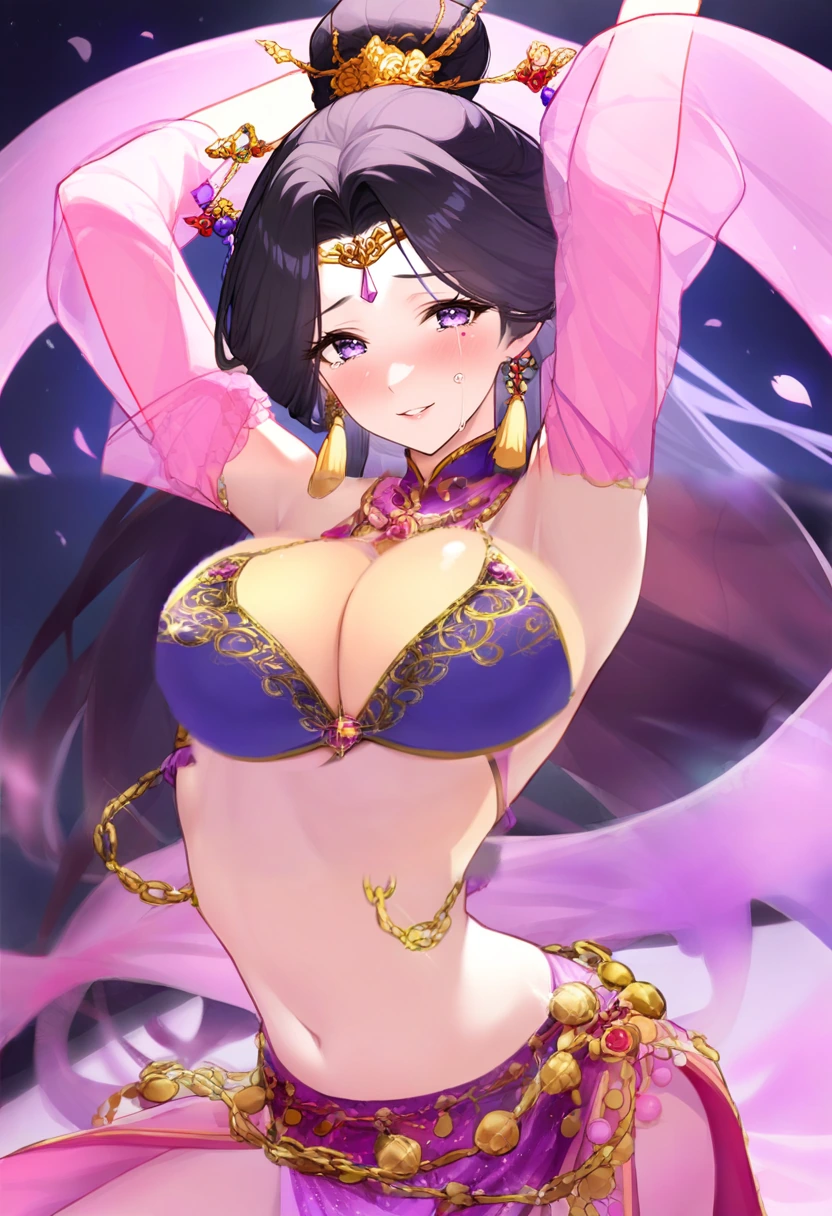
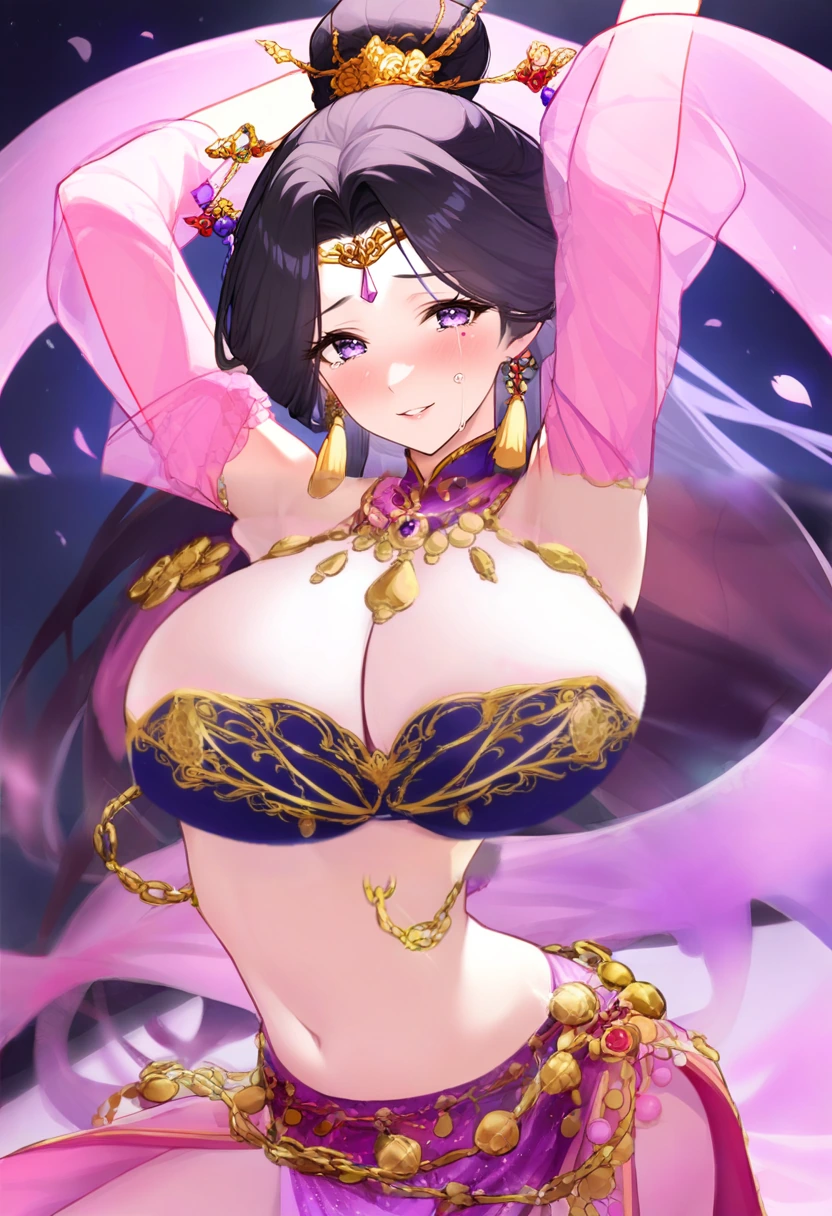
Diaochan v4: chest 2x larger, chest skin tone matched to stomach
Claude-Session: https://claude.ai/code/session_017CQhY3FLdH51zJppLF11JD

Changed region(s): [[0.0938, 0.4062, 0.7812, 0.7188]]

diff --git a/game/public/js/layered.js b/game/public/js/layered.js
@@ -17,7 +17,7 @@
     // 貂蟬 v2（2026-11-19 開發用 Colab＋Illustrious-XL 自己生的，Jay 選圖）：只有胸部、平胸底層、閉眼三層
     diaochan_v4: {
       w: 832, h: 1216, link: 1,
-      art: [[0.3425, 0.5345, 0.1623, 0.0987], [0.5409, 0.5304, 0.1623, 0.0987]],   // v2 的臉＋舞姬裝，胸部單獨生成（2026-11-19 重做：放大、底層整片紫）
+      art: [[0.3365, 0.5592, 0.2284, 0.1357], [0.5481, 0.5551, 0.2284, 0.1357]],   // v2 的臉＋舞姬裝，胸部單獨生成（2026-11-19：再放大一倍、膚色對齊肚子）
     },
     diaochan_v3: {
       w: 832, h: 1216,
@@ -106,7 +106,7 @@
       else { cc.globalCompositeOperation = "destination-in"; cc.drawImage(m, 0, 0); }
       tex = { base: mkTex(b), chest: mkTex(c), blink: mkTex(imgs.blink) }; if (imgs.acc) tex.acc = mkTex(imgs.acc); if (imgs.hair) tex.hair = mkTex(imgs.hair);
     }
-    names.forEach(function (n) { var im = new Image(); im.onload = function () { imgs[n] = im; if (--left === 0) compose(); }; im.src = base + (R.pre || id + "_") + n + ".webp?v=14"; });   // 改圖要換這個數字，不然手機會用到舊圖
+    names.forEach(function (n) { var im = new Image(); im.onload = function () { imgs[n] = im; if (--left === 0) compose(); }; im.src = base + (R.pre || id + "_") + n + ".webp?v=15"; });   // 改圖要換這個數字，不然手機會用到舊圖
 
     var P = { K: 38, C: 3.0, BREATH: 0.0035, BT: 3.8, LIFT: 0.016, MAX: 0.042, RIM: 0.28, amp: opt.amp == null ? 1 : opt.amp };   // MAX 是胸部中心的最大位移；邊緣只動 RIM 倍（約 0.28）
     var c = [{ x: 0, y: 0, vx: 0, vy: 0 }, { x: 0, y: 0, vx: 0, vy: 0 }], ear = [{ a: 0, v: 0 }, { a: 0, v: 0 }], hair = { x: 0, v: 0 };

diff --git a/game/public/tool/sunquan.html b/game/public/tool/sunquan.html
@@ -17,7 +17,7 @@ input[type=range]{flex:1}
 <div class="row">淡化<input id="fe" type="range" min="0" max="40" step="2" value="6"><span id="fv">6</span></div>
 <div class="row">邊緣<input id="rim" type="range" min="0" max="1" step="0.05" value="0.28"><span id="rv">0.28</span></div>
 <div class="row">幅度<input id="amp" type="range" min="0.3" max="1.3" step="0.1" value="1"><span id="av">1.0</span><button id="poke">晃一下</button></div></div></div>
-<script src="../js/layered.js?v=1119h"></script>
+<script src="../js/layered.js?v=1119i"></script>
 <script>
 var ID=new URLSearchParams(location.search).get("id")||"sunquan_ur";if(ID!=="sunquan_ur"){document.title="分層立繪試作";document.querySelector("#bar b").textContent=({diaochan_v2:"貂蟬",diaochan_v3:"貂蟬 v3",diaochan_v4:"貂蟬 v4"})[ID]+"｜分層立繪試作";document.querySelector("#bar .row").style.display="none";document.getElementById("stage").style.background="#1a1020"}
 var stage=document.getElementById("stage"),amp=document.getElementById("amp"),ol=null,L=null;

diff --git a/game/public/index.html b/game/public/index.html
@@ -56,7 +56,7 @@
 <script src="js/battle.js?v=1119a"></script>
 <script src="js/scene.js?v=1119a"></script>
 <script src="js/audio.js?v=1119a"></script>
-<script src="js/layered.js?v=1119h"></script>
+<script src="js/layered.js?v=1119i"></script>
 <script src="js/cardfx.js?v=1119a"></script>
 <script src="js/jiggle.js?v=1119a"></script>
 <script src="js/ui.js?v=1119a"></script>
